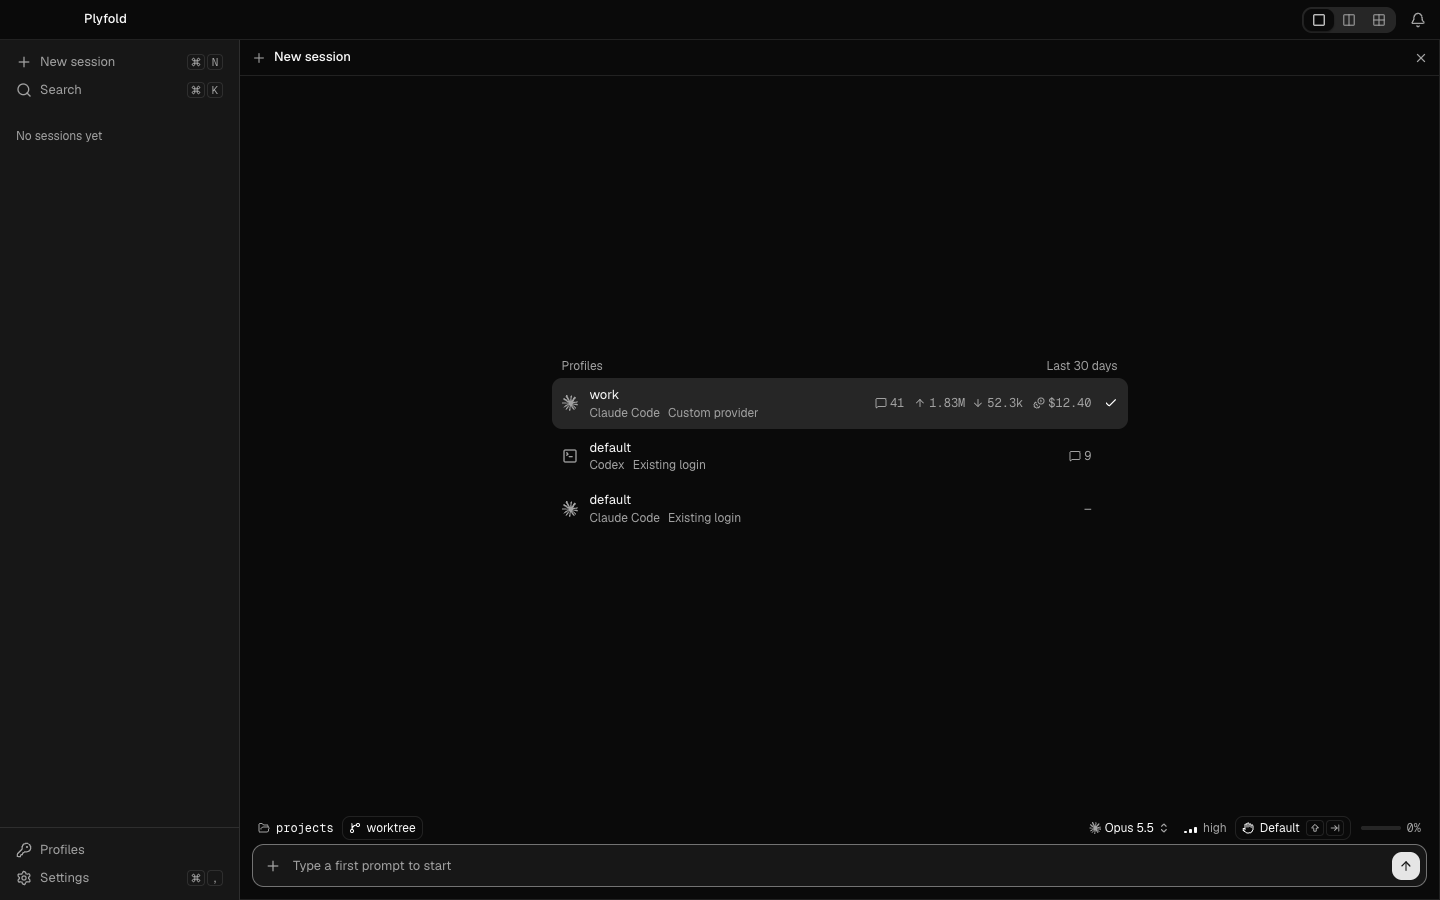
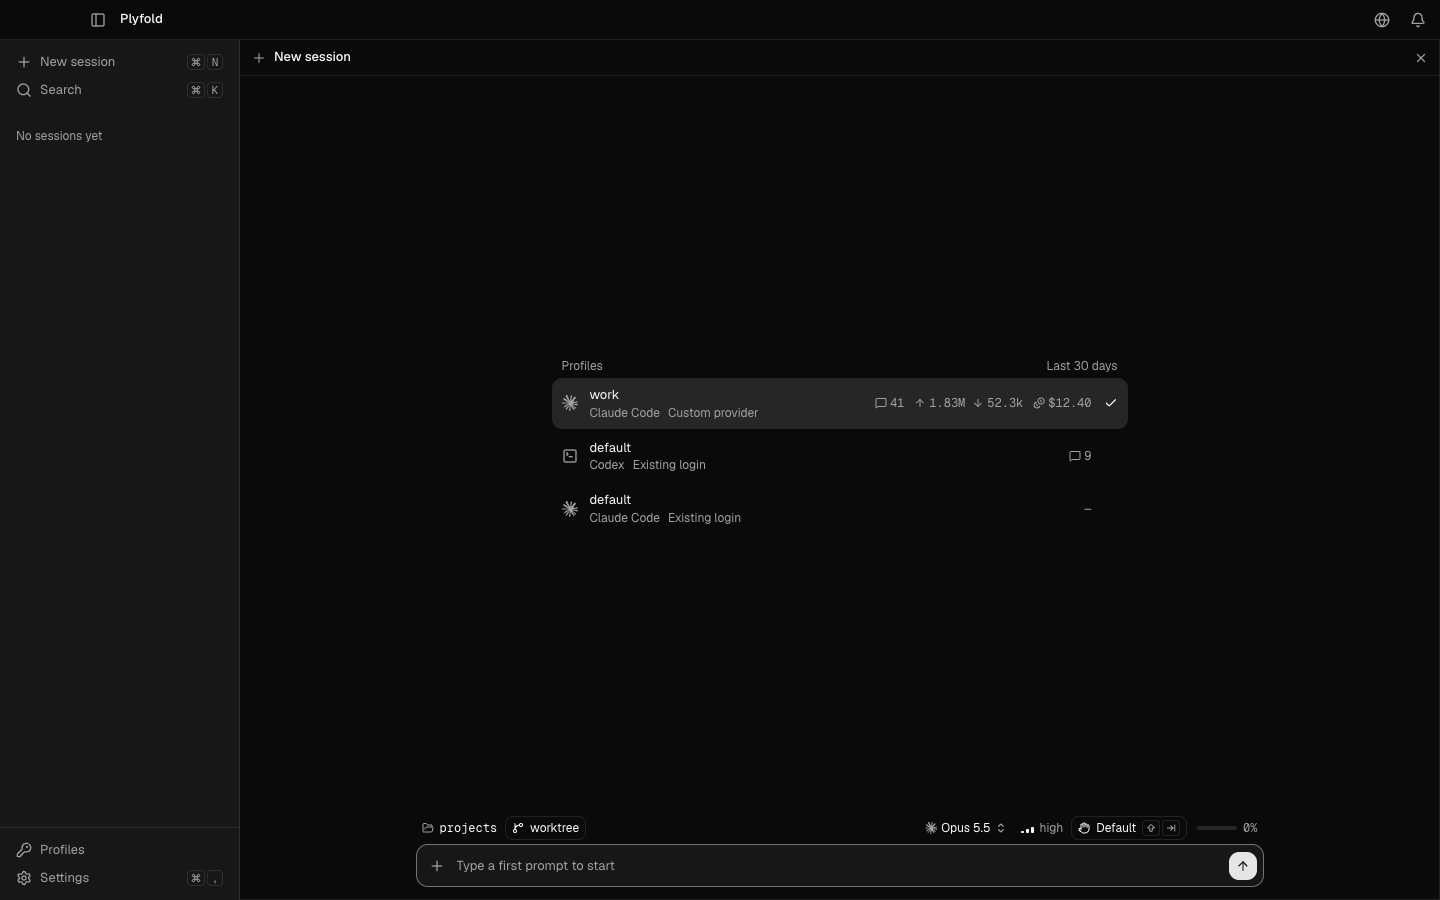
Prepare the repository for going public
- CI scans the whole history for secrets with gitleaks; the two fake keys
  in tests are listed in .gitleaksignore.
- New README screenshots of the current UI (a split layout with a
  permission request, and the new session screen), a CI badge and
  acknowledgements for the libraries, fonts and icons the app ships, with a
  note that the screenshots use made-up data and that Plyfold is not
  affiliated with the agent vendors.
- docs/ui-design.md no longer points at mockups that aren't in the
  repository.

diff --git a/README.md b/README.md
@@ -1,10 +1,12 @@
 # Plyfold
 
+[![CI](https://github.com/Tettu0530/plyfold/actions/workflows/ci.yml/badge.svg)](https://github.com/Tettu0530/plyfold/actions/workflows/ci.yml)
+
 Plyfold is a macOS desktop app for running coding agents side by side. It drives existing agent CLIs (Claude Code, Codex, OpenCode and Gemini CLI) over the [Agent Client Protocol](https://agentclientprotocol.com) (ACP). Each session gets its own git worktree, and you can keep several API keys for the same CLI.
 
 Plyfold does not implement its own agent loop. It is an ACP client: the agent CLI does the model calls, tool use and file edits, and Plyfold launches it, shows what it does, answers its permission requests and handles the git side.
 
-![Two sessions side by side: one is running cargo test and showing an inline diff, the other has just written a CHANGELOG entry](docs/assets/screenshot.png)
+![Three sessions in a split layout: one is running cargo test and showing an inline diff, one has just written a CHANGELOG entry, and one is waiting for permission to run a benchmark](docs/assets/screenshot.png)
 
 ## Why
 
@@ -140,6 +142,12 @@ Plyfold is early. There is no prebuilt release yet, and the app is not signed, s
 ## Contributing
 
 Contributions are welcome. Please read [CONTRIBUTING.md](CONTRIBUTING.md) and the [Code of Conduct](CODE_OF_CONDUCT.md). To report a security issue, see [SECURITY.md](SECURITY.md) and do not open a public issue.
+
+## Acknowledgements
+
+Plyfold is built on [Tauri](https://tauri.app), [React](https://react.dev), [Radix UI](https://www.radix-ui.com) with [shadcn/ui](https://ui.shadcn.com) patterns, [Motion](https://motion.dev), [Zustand](https://zustand.docs.pmnd.rs) and the [Agent Client Protocol](https://agentclientprotocol.com). It ships the [Geist and Geist Mono](https://vercel.com/font) typefaces (SIL Open Font License 1.1), icons from [Lucide](https://lucide.dev) (ISC) and agent logos from [Simple Icons](https://simpleicons.org) (CC0). Product names and logos belong to their owners; Plyfold is not affiliated with Anthropic, OpenAI, Google or the OpenCode project.
+
+The screenshots use made-up sessions and numbers.
 
 ## License
 

diff --git a/docs/ui-design.md b/docs/ui-design.md
@@ -1,6 +1,6 @@
 # UI design (draft)
 
-Mockups: the Plyfold UI prototype (a design canvas with five frames). macOS only, Tauri + React + TypeScript. We do not use the native Liquid Glass.
+The UI was first drawn as mockups outside the repository; this document records the decisions they led to. macOS only, Tauri + React + TypeScript. We do not use the native Liquid Glass.
 Visual and motion rules follow `.claude/skills/no-ai-slop-ui/SKILL.md`.
 
 ## Visual foundation
